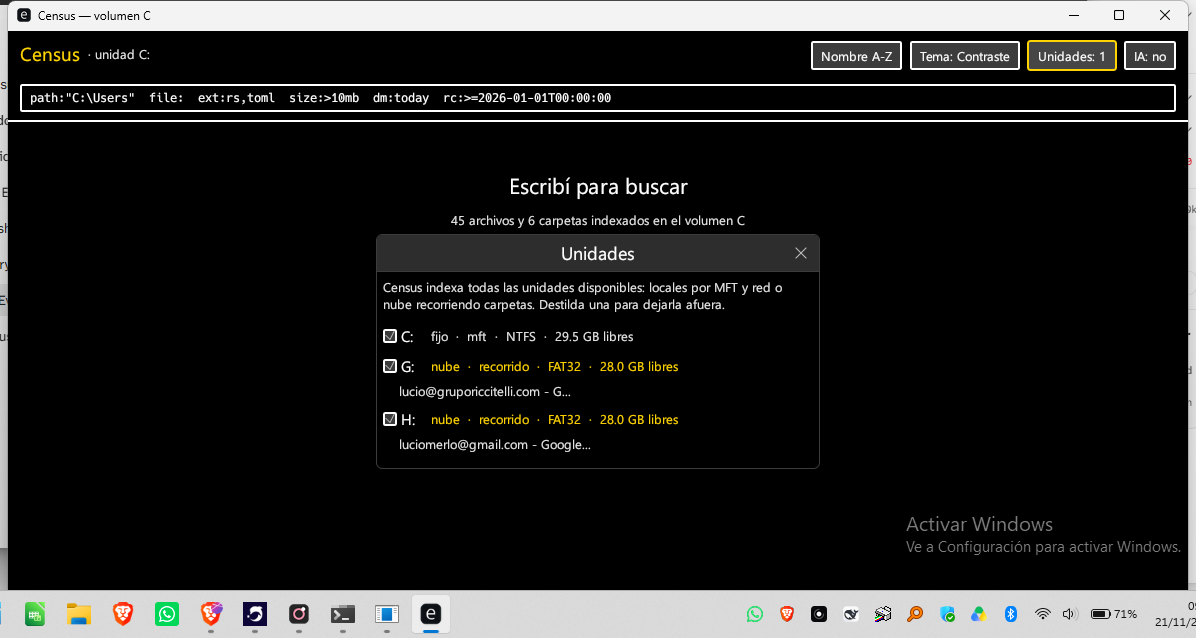
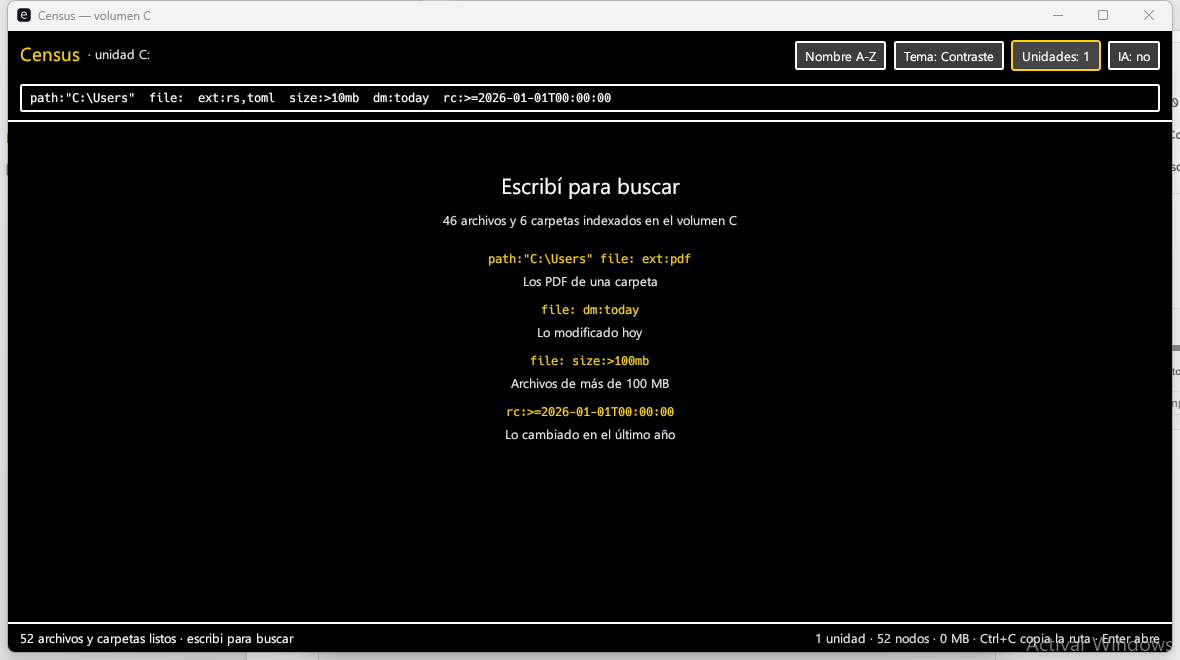
docs: capturas parejas, estado de la barra y plural de unidades
- capture-gui.ps1 fija posicion y tamano de la ventana, asi las tres capturas salen iguales.
- La barra de estado dice cuantos archivos hay listos cuando no hay consulta.
- "1 unidad" en singular.

diff --git a/src/gui.rs b/src/gui.rs
@@ -651,8 +651,9 @@ impl GuiApp {
                             / (1024.0 * 1024.0);
                         ui.label(
                             RichText::new(format!(
-                                "{} unidades · {nodes} nodos · {ram:.0} MB · Ctrl+C copia la ruta · Enter abre",
-                                self.index.roots.len()
+                                "{} {} · {nodes} nodos · {ram:.0} MB · Ctrl+C copia la ruta · Enter abre",
+                                self.index.roots.len(),
+                                if self.index.roots.len() == 1 { "unidad" } else { "unidades" }
                             ))
                             .size(theme.font_status())
                             .color(theme.muted()),
